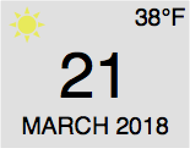
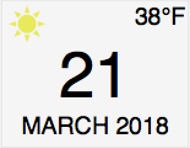
Update image calendar.

diff --git a/data.html b/data.html
@@ -24,7 +24,7 @@
   <body>
     <div class="sidenav-left">
       <center>
-        <a href="calendar.html" style="border-color:transparent" > <img src="img/weather.png" alt="" class="img-logo">   </a>
+        <a href="calendar.html" style="border-color:transparent" > <img src="img/date0.png" alt="" class="img-logo">   </a>
         <br><br>
         <div class="btn-link" style="background-color: #F1F1F1;">
           <a href="index.html">Our Status</a>

diff --git a/wallet.html b/wallet.html
@@ -21,7 +21,7 @@
   <body>
     <div class="sidenav-left">
       <center>
-        <a href="calendar.html" style="border-color:transparent"> <img  src="img/weather.png" alt="" class="img-logo">   </a>
+        <a href="calendar.html" style="border-color:transparent"> <img  src="img/date0.png" alt="" class="img-logo">   </a>
         <br><br>
         <div class="btn-link" style="background-color: #F1F1F1;">
           <a href="index.html">Our Status</a>

diff --git a/actions.html b/actions.html
@@ -22,7 +22,7 @@
   <body>
     <div class="sidenav-left">
       <center>
-        <a href="calendar.html" style="border-color:transparent"> <img src="img/weather.png" alt="" class="img-logo">   </a>
+        <a href="calendar.html" style="border-color:transparent"> <img src="img/date0.png" alt="" class="img-logo">   </a>
         <br><br>
         <div class="btn-link" style="background-color: #F1F1F1;">
           <a href="index.html">Our Status</a>

diff --git a/index.html b/index.html
@@ -25,7 +25,7 @@
   <body>
     <div class="sidenav-left">
       <center>
-        <a href="calendar.html" style="border-color:transparent"> <img src="img/weather.png" alt="" class="img-logo">   </a>
+        <a href="calendar.html" style="border-color:transparent"> <img src="img/date0.png" alt="" class="img-logo">   </a>
         <br><br>
         <div class="btn-link" style="background-color: #dadada">
           <a href="#">Our Status</a>

diff --git a/calendar.html b/calendar.html
@@ -21,7 +21,7 @@
   <body>
     <div class="sidenav-left">
       <center>
-        <img src="img/weather.png" alt="" class="img-logo">  
+        <a href="calendar.html" style="border-color:transparent" > <img src="img/date0.png" alt="" class="img-logo">   </a>
         <br><br>
         <div class="btn-link" >
           <a href="index.html">Our Status</a>
